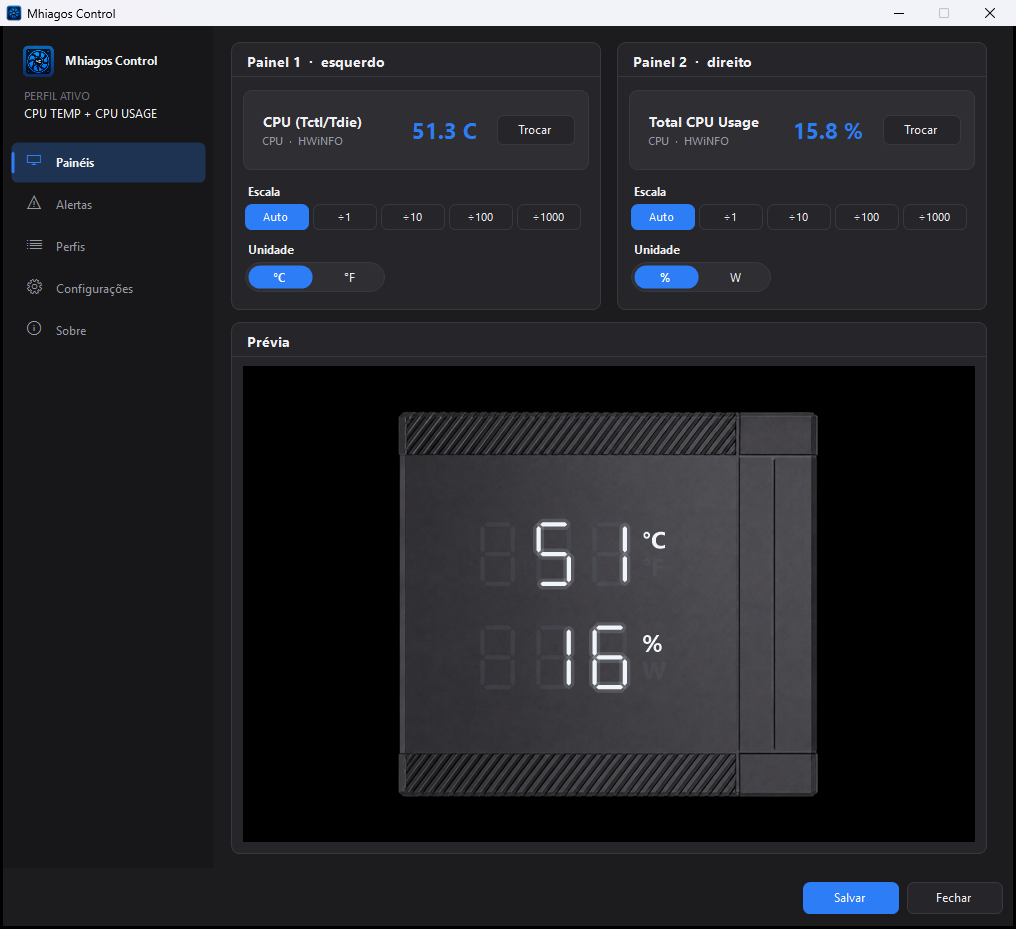
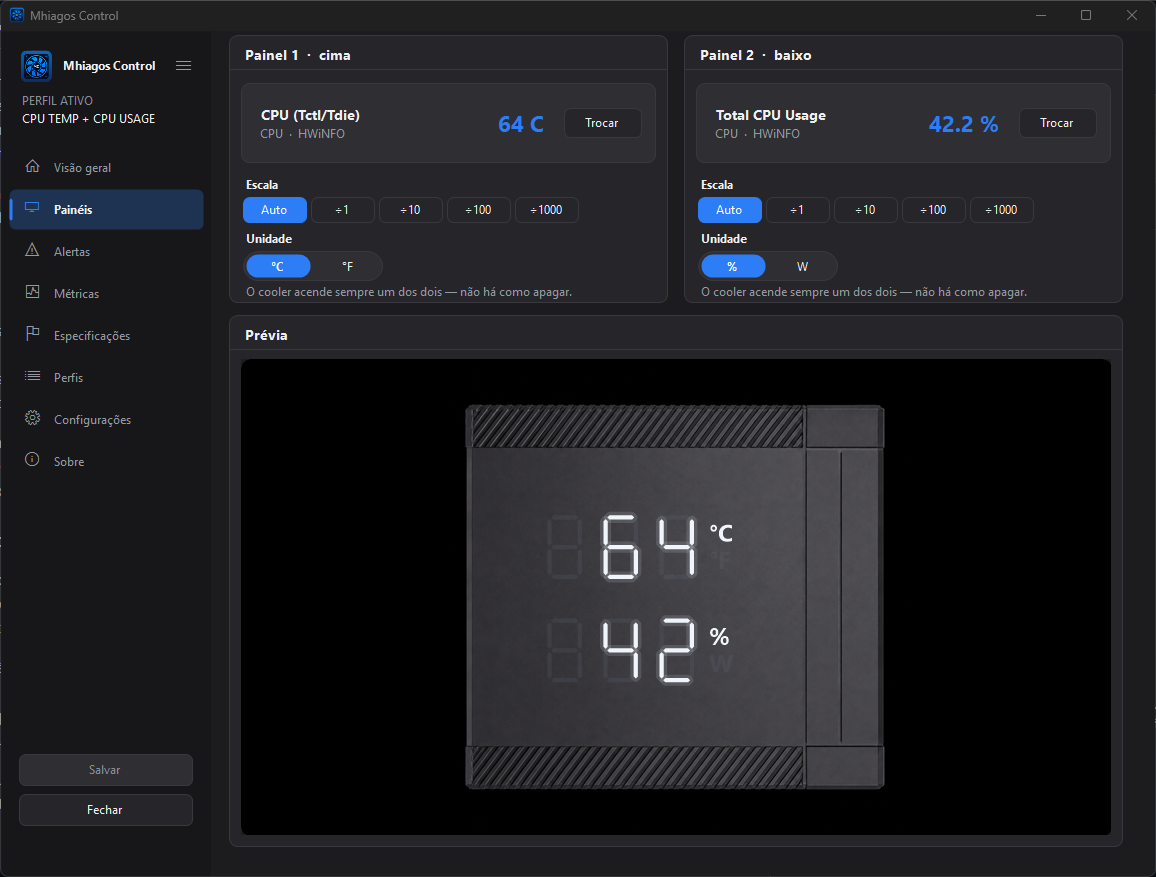
Capturas de tela da versao atual no README
As que estavam la eram de 10/08: a barra lateral ainda trazia o bloco SISTEMA,
Salvar e Fechar ficavam no rodape e as paginas Visao geral, Metricas e
Especificacoes nem existiam. Uma captura que mostra um programa que nao existe
mais e pior que nenhuma - quem chega pelo README decide se instala olhando
para ela.

Entram quatro: Visao geral, Paineis, Metricas e Especificacoes. Sao as que
respondem o que o programa faz; Alertas e Configuracoes sao formularios, e um
formulario em miniatura nao ensina nada que a linha de texto ao lado nao diga
melhor.

Saem alertas.png, configuracoes.png, perfis.png e sobre.png, que ficaram sem
referencia. Nenhuma das quatro mostra nome de maquina ou de usuario: a aba
Configuracoes, que exibe o caminho dos dados com a pasta do usuario dentro,
ficou de fora por isso.

diff --git a/README.md b/README.md
@@ -73,13 +73,10 @@ monitor atual.
 
 | | |
 |:--:|:--:|
-| ![Painéis](docs/paineis.png) | ![Alertas](docs/alertas.png) |
-| **Painéis** — escolha o sensor de cada mostrador, a escala e as unidades, com prévia ao vivo sobre a peça | **Alertas** — limiar de cima e de baixo por mostrador, com rearme ao voltar à faixa |
-| ![Perfis](docs/perfis.png) | ![Configurações](docs/configuracoes.png) |
-| **Perfis** — cada conjunto salvo mostra o que põe no mostrador, com prévia, rodízio e exportação | **Configurações** — idioma, início automático, resumo de sensores por núcleo e apagar por ociosidade |
-
-> As capturas acima são de uma versão anterior: a barra lateral mudou e as
-> páginas *Visão geral*, *Métricas* e *Especificações* ainda não aparecem nelas.
+| ![Visão geral](docs/visaogeral.png) | ![Painéis](docs/paineis.png) |
+| **Visão geral** — as leituras em destaque com histórico, o mostrador do cooler ao vivo e a curva do que vai para cada painel | **Painéis** — escolha o sensor de cada mostrador, a escala e as unidades, com prévia ao vivo sobre a peça |
+| ![Métricas](docs/metricas.png) | ![Especificações](docs/especificacoes.png) |
+| **Métricas** — a grade de cartões arrastáveis, cada um com número grande, série recente e mínimo, média e máximo da janela | **Especificações** — o retrato da máquina, do stepping do processador à VBIOS da placa e ao tipo de cada disco |
 
 Preferências valem para o programa todo; perfis valem para o mostrador. Por
 isso moram em páginas diferentes — as preferências ficavam dentro do *Sobre*,
